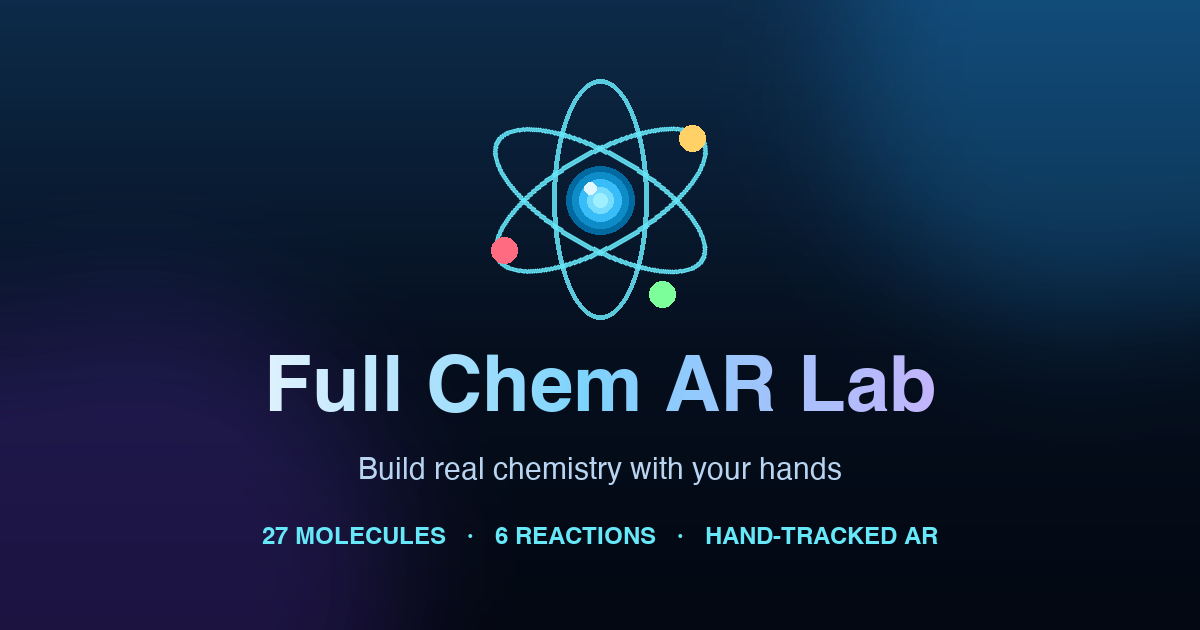
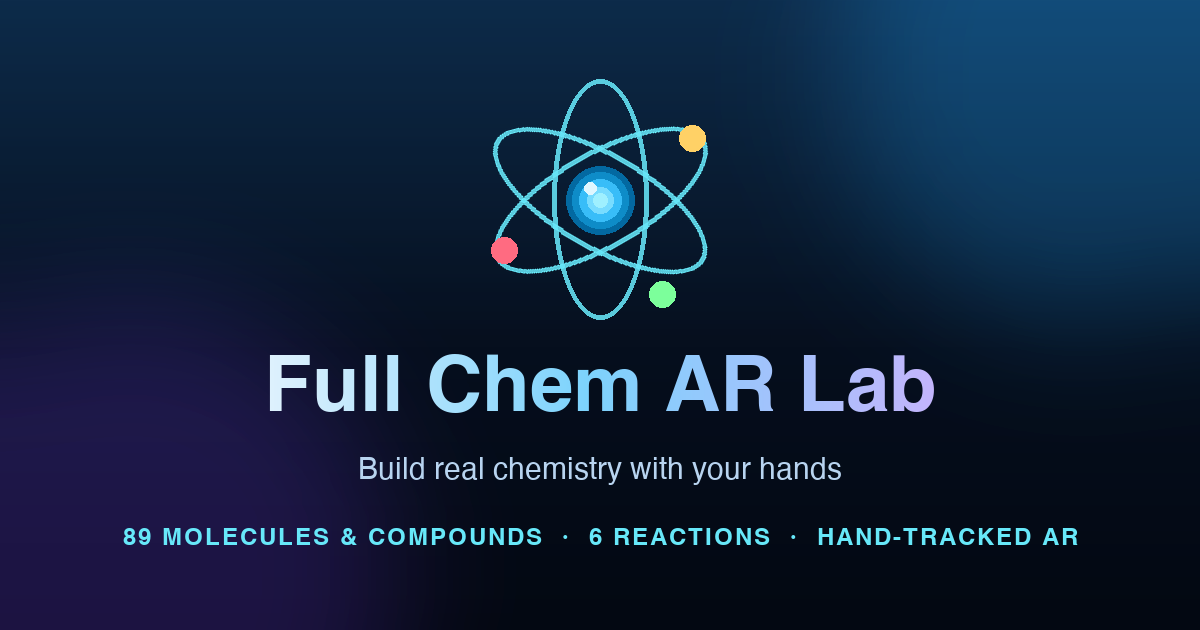
Update everything that lists or counts molecules (89 species)
- Discoveries list grouped (covalent molecules, expanded octets, noble-gas
  compounds, ions, ionic compounds, radicals, network solids, reaction
  products) with per-group counts, in the panel's existing styles.
- The total only counts listed species, and the 'all discovered'
  celebration needs every listed species (stale stored formulas could
  previously make it fire wrongly or never); it names the total.
- About the Science: partner-dependent bonding rules and the new shapes,
  isomers, radicals and network solid.
- Landing chips, page meta description, social preview image and README
  say 89 molecules & compounds.

Changed region(s): [[0.0925, 0.8143, 0.8942, 0.8746]]

diff --git a/src/App.jsx b/src/App.jsx
@@ -174,34 +174,46 @@ const POSITIVE_CHARGE_RGB = { r: 255, g: 170, b: 64 };
 const NEGATIVE_CHARGE_RGB = { r: 90, g: 200, b: 255 };
 
 const DISCOVERABLE_MOLECULES = [
-  { formula: "H2", label: "H₂ — Hydrogen gas" },
-  { formula: "O2", label: "O₂ — Oxygen gas" },
-  { formula: "N2", label: "N₂ — Nitrogen gas" },
-  { formula: "H2O", label: "H₂O — Water" },
-  { formula: "CO", label: "CO — Carbon monoxide" },
-  { formula: "CO2", label: "CO₂ — Carbon dioxide" },
-  { formula: "NH3", label: "NH₃ — Ammonia" },
-  { formula: "CH4", label: "CH₄ — Methane" },
-  { formula: "H2CO3", label: "H₂CO₃ — Carbonic acid" },
-  { formula: "2H2O", label: "2H₂O — Water dimer" },
-  { formula: "H3O+", label: "H₃O⁺ — Hydronium" },
-  { formula: "NH4+", label: "NH₄⁺ — Ammonium" },
-  { formula: "NaCl", label: "NaCl — Table salt" },
-  { formula: "HCl", label: "HCl — Hydrogen chloride" },
-  { formula: "OH-", label: "OH⁻ — Hydroxide" },
-  { formula: "H2O2", label: "H₂O₂ — Hydrogen peroxide" },
-  { formula: "O3", label: "O₃ — Ozone" },
-  { formula: "C2H6", label: "C₂H₆ — Ethane" },
-  { formula: "C2H4", label: "C₂H₄ — Ethene" },
-  { formula: "C2H2", label: "C₂H₂ — Ethyne" },
-  { formula: "CH3OH", label: "CH₃OH — Methanol" },
-  { formula: "NaOH", label: "NaOH — Sodium hydroxide" },
-  { formula: "Na2O", label: "Na₂O — Sodium oxide" },
-  { formula: "SO2", label: "SO₂ — Sulfur dioxide" },
-  { formula: "H2S", label: "H₂S — Hydrogen sulfide" },
-  { formula: "NH4Cl", label: "NH₄Cl — Ammonium chloride (reaction!)" },
-  { formula: "H2SO3", label: "H₂SO₃ — Sulfurous acid (reaction!)" },
+  { formula: "H2", label: "H₂ — Hydrogen gas" , group: "Covalent molecules" },
+  { formula: "O2", label: "O₂ — Oxygen gas" , group: "Covalent molecules" },
+  { formula: "N2", label: "N₂ — Nitrogen gas" , group: "Covalent molecules" },
+  { formula: "H2O", label: "H₂O — Water" , group: "Covalent molecules" },
+  { formula: "CO", label: "CO — Carbon monoxide" , group: "Covalent molecules" },
+  { formula: "CO2", label: "CO₂ — Carbon dioxide" , group: "Covalent molecules" },
+  { formula: "NH3", label: "NH₃ — Ammonia" , group: "Covalent molecules" },
+  { formula: "CH4", label: "CH₄ — Methane" , group: "Covalent molecules" },
+  { formula: "H2CO3", label: "H₂CO₃ — Carbonic acid" , group: "Reaction products" },
+  { formula: "2H2O", label: "2H₂O — Water dimer" , group: "Covalent molecules" },
+  { formula: "H3O+", label: "H₃O⁺ — Hydronium" , group: "Ions" },
+  { formula: "NH4+", label: "NH₄⁺ — Ammonium" , group: "Ions" },
+  { formula: "NaCl", label: "NaCl — Table salt" , group: "Ionic compounds" },
+  { formula: "HCl", label: "HCl — Hydrogen chloride" , group: "Covalent molecules" },
+  { formula: "OH-", label: "OH⁻ — Hydroxide" , group: "Ions" },
+  { formula: "H2O2", label: "H₂O₂ — Hydrogen peroxide" , group: "Covalent molecules" },
+  { formula: "O3", label: "O₃ — Ozone" , group: "Covalent molecules" },
+  { formula: "C2H6", label: "C₂H₆ — Ethane" , group: "Covalent molecules" },
+  { formula: "C2H4", label: "C₂H₄ — Ethene" , group: "Covalent molecules" },
+  { formula: "C2H2", label: "C₂H₂ — Ethyne" , group: "Covalent molecules" },
+  { formula: "CH3OH", label: "CH₃OH — Methanol" , group: "Covalent molecules" },
+  { formula: "NaOH", label: "NaOH — Sodium hydroxide" , group: "Ionic compounds" },
+  { formula: "Na2O", label: "Na₂O — Sodium oxide" , group: "Ionic compounds" },
+  { formula: "SO2", label: "SO₂ — Sulfur dioxide" , group: "Covalent molecules" },
+  { formula: "H2S", label: "H₂S — Hydrogen sulfide" , group: "Covalent molecules" },
+  { formula: "NH4Cl", label: "NH₄Cl — Ammonium chloride (reaction)" , group: "Reaction products" },
+  { formula: "H2SO3", label: "H₂SO₃ — Sulfurous acid (reaction)" , group: "Reaction products" },
   ...EXTRA_DISCOVERABLE_MOLECULES,
+];
+
+// Order of the sections in the Discoveries list.
+const DISCOVERY_GROUPS = [
+  "Covalent molecules",
+  "Expanded octets",
+  "Noble-gas compounds",
+  "Ions",
+  "Ionic compounds",
+  "Radicals",
+  "Network solids",
+  "Reaction products",
 ];
 
 // Data-driven molecule definitions. Legacy species (H2O, CO2, ...) keep their
@@ -1685,13 +1697,15 @@ function App() {
     showEventBanner({ kind: "discovery", title: "Molecule discovered!", subtitle: entry.label });
     playDiscoverySound();
 
-    if (nextDiscovered.length === DISCOVERABLE_MOLECULES.length) {
+    // Stored discoveries can include formulas from older versions, so check
+    // that every listed species has really been found.
+    if (DISCOVERABLE_MOLECULES.every((discoverable) => nextDiscovered.includes(discoverable.formula))) {
       window.setTimeout(() => {
         showEventBanner(
           {
             kind: "all",
             title: "All molecules discovered!",
-            subtitle: "You found every molecule in the lab 🎉",
+            subtitle: `You found all ${DISCOVERABLE_MOLECULES.length} species in the lab 🎉`,
           },
           5200
         );
@@ -4153,6 +4167,9 @@ function App() {
   const atomicExpansionCollapseGesture = atomicExpansionCollapseGestureRef.current;
   // eslint-disable-next-line react-hooks/refs
   const currentPH = getEstimatedPH(moleculesRef.current);
+  const discoveredCount = DISCOVERABLE_MOLECULES.filter((discoverable) =>
+    discoveredFormulas.includes(discoverable.formula)
+  ).length;
   const currentPHLabel = currentPH < 6.5 ? "Acidic" : currentPH > 7.5 ? "Basic" : "Neutral";
   const currentPHColor = currentPH < 6.5 ? "#fb7185" : currentPH > 7.5 ? "#a78bfa" : "#86efac";
   // Molecule inspector target: any grabbed molecule first, else the hovered one.
@@ -10182,7 +10199,7 @@ function App() {
               {
                 heading: "Molecular geometry (VSEPR)",
                 body:
-                  "Molecules snap into shapes based on VSEPR theory: water is bent at 104.5°, ammonia is trigonal pyramidal (107°), methane tetrahedral (109.5°), CO₂ linear, H₂S bent at 92°. Lone pairs are drawn from each species' Lewis structure — including chloride's full octet in ionic compounds. SO₂ and O₃ are drawn as resonance hybrids: instead of one double and one single bond, both bonds render identically as order 1½ (a solid stick plus a dashed delocalized stick) — matching the real molecules, whose two bonds are exactly the same length.",
+                  "Molecules snap into shapes based on VSEPR theory: water is bent at 104.5°, ammonia is trigonal pyramidal (107°), methane tetrahedral (109.5°), CO₂ linear, H₂S bent at 92°. Lone pairs are drawn from each species' Lewis structure — including chloride's full octet in ionic compounds. SO₂ and O₃ are drawn as resonance hybrids: instead of one double and one single bond, both bonds render identically as order 1½ (a solid stick plus a dashed delocalized stick) — matching the real molecules, whose two bonds are exactly the same length. Expanded-octet molecules show the shapes usually seen only in textbooks: see-saw SF₄, T-shaped ClF₃, square planar XeF₄, square pyramidal IF₅, trigonal bipyramidal PCl₅, octahedral SF₆ and pentagonal bipyramidal IF₇, drawn as 2-D views of the 3-D shape. Isomers such as ethanol and dimethyl ether (both C₂H₆O) are told apart by which atoms are bonded to which. Radicals (NO, NO₂) show their unpaired electron as a single dot, and SiO₂ is shown as one formula unit of a network solid, with faint open bonds where the quartz network continues.",
               },
               {
                 heading: "Bond polarity",
@@ -10192,7 +10209,7 @@ function App() {
               {
                 heading: "Bonding rules",
                 body:
-                  "Atoms enforce their real valences: H forms 1 bond, O 2, N 3, C 4, S 2 — with the extra dative-bond slot that creates the hydronium (H₃O⁺) and ammonium (NH₄⁺) cations. Metals never bond covalently: sodium only pairs ionically.",
+                  "Atoms enforce their real valences (counted in bond order — a double bond uses 2): H forms 1 bond, O 2, N 3, C 4. N and O can take one extra bond only from hydrogen, which makes NH₄⁺ and H₃O⁺. Elements from the third row down can exceed an octet, but only with very electronegative partners, and never past a real compound: S reaches 6 only with F or O (SF₆, H₂SO₄), P 5 with F, Cl or O (PCl₅, H₃PO₄), Cl 3 and I 7 with F (ClF₃, IF₇), xenon 6 with F or O (XeF₄, XeO₃) and krypton 2 with F (KrF₂) — so SH₆, SCl₆, NCl₅ and OF₄ are refused. These \u201cexpanded octets\u201d are the textbook Lewis picture; modern bonding theory explains them without d orbitals. Alkali and alkaline-earth metals never bond covalently: they only pair ionically with halides, oxide or sulfide.",
               },
               {
                 heading: "Reactions conserve mass",
@@ -10960,7 +10977,7 @@ function App() {
                   fontWeight: 700,
                 }}
               >
-                🧪 Discoveries ({discoveredFormulas.length}/{DISCOVERABLE_MOLECULES.length})
+                🧪 Discoveries ({discoveredCount}/{DISCOVERABLE_MOLECULES.length})
               </span>
               <span style={{ fontSize: "12px", opacity: 0.7 }}>{questOpen ? "▲" : "▼"}</span>
             </button>
@@ -10971,33 +10988,73 @@ function App() {
                   display: "flex",
                   flexDirection: "column",
                   gap: "5px",
-                  maxHeight: "230px",
+                  maxHeight: "min(420px, 60vh)",
                   overflowY: "auto",
                 }}
               >
-                {DISCOVERABLE_MOLECULES.map((discoverable) => {
-                  const isFound = discoveredFormulas.includes(discoverable.formula);
+                {DISCOVERY_GROUPS.map((group) => {
+                  const entries = DISCOVERABLE_MOLECULES.filter(
+                    (discoverable) => discoverable.group === group
+                  );
+                  const foundInGroup = entries.filter((discoverable) =>
+                    discoveredFormulas.includes(discoverable.formula)
+                  ).length;
+
+                  if (entries.length === 0) {
+                    return null;
+                  }
 
                   return (
                     <div
-                      key={discoverable.formula}
-                      style={{
-                        display: "flex",
-                        alignItems: "center",
-                        justifyContent: "space-between",
-                        gap: "8px",
-                        padding: "5px 8px",
-                        borderRadius: "8px",
-                        fontSize: "clamp(12px, 1.3vw, 12px)",
-                        background: isFound ? "rgba(34, 197, 94, 0.1)" : "rgba(255, 255, 255, 0.03)",
-                        border: isFound
-                          ? "1px solid rgba(134, 239, 172, 0.22)"
-                          : "1px solid rgba(255, 255, 255, 0.05)",
-                        color: isFound ? "#bbf7d0" : "rgba(255, 255, 255, 0.42)",
-                      }}
+                      key={group}
+                      style={{ display: "flex", flexDirection: "column", gap: "5px" }}
                     >
-                      <span>{isFound ? discoverable.label : "??? — undiscovered"}</span>
-                      {isFound ? <span style={{ fontWeight: 800 }}>✓</span> : null}
+                      <div
+                        style={{
+                          display: "flex",
+                          justifyContent: "space-between",
+                          gap: "8px",
+                          marginTop: "6px",
+                          fontSize: "clamp(11px, 1.2vw, 11px)",
+                          fontWeight: 700,
+                          letterSpacing: "0.08em",
+                          textTransform: "uppercase",
+                          color: "rgba(186, 230, 253, 0.7)",
+                        }}
+                      >
+                        <span>{group}</span>
+                        <span style={{ opacity: 0.8 }}>
+                          {foundInGroup}/{entries.length}
+                        </span>
+                      </div>
+                      {entries.map((discoverable) => {
+                        const isFound = discoveredFormulas.includes(discoverable.formula);
+
+                        return (
+                          <div
+                            key={discoverable.formula}
+                            style={{
+                              display: "flex",
+                              alignItems: "center",
+                              justifyContent: "space-between",
+                              gap: "8px",
+                              padding: "5px 8px",
+                              borderRadius: "8px",
+                              fontSize: "clamp(12px, 1.3vw, 12px)",
+                              background: isFound
+                                ? "rgba(34, 197, 94, 0.1)"
+                                : "rgba(255, 255, 255, 0.03)",
+                              border: isFound
+                                ? "1px solid rgba(134, 239, 172, 0.22)"
+                                : "1px solid rgba(255, 255, 255, 0.05)",
+                              color: isFound ? "#bbf7d0" : "rgba(255, 255, 255, 0.42)",
+                            }}
+                          >
+                            <span>{isFound ? discoverable.label : "??? — undiscovered"}</span>
+                            {isFound ? <span style={{ fontWeight: 800 }}>✓</span> : null}
+                          </div>
+                        );
+                      })}
                     </div>
                   );
                 })}

diff --git a/index.html b/index.html
@@ -11,13 +11,13 @@
     <link rel="apple-touch-icon" href="/apple-touch-icon.png" />
     <meta
       name="description"
-      content="Build real chemistry with your hands — a hand-tracked AR chemistry lab with 27 buildable molecules and 6 atom-conserving reactions, right in your browser."
+      content="Build real chemistry with your hands — a hand-tracked AR chemistry lab with 89 buildable molecules and compounds, all 118 elements and 6 atom-conserving reactions, right in your browser."
     />
     <meta property="og:type" content="website" />
     <meta property="og:title" content="Full Chem AR Lab" />
     <meta
       property="og:description"
-      content="Build real chemistry with your hands — 27 molecules, 6 reactions, hand-tracked AR in your browser."
+      content="Build real chemistry with your hands — 89 molecules & compounds, 6 reactions, hand-tracked AR in your browser."
     />
     <meta property="og:url" content="https://aeronite-p.github.io/Full-Chem-AR-Lab/" />
     <meta property="og:image" content="https://aeronite-p.github.io/Full-Chem-AR-Lab/og-image.png" />
@@ -27,7 +27,7 @@
     <meta name="twitter:title" content="Full Chem AR Lab" />
     <meta
       name="twitter:description"
-      content="Build real chemistry with your hands — 27 molecules, 6 reactions, hand-tracked AR in your browser."
+      content="Build real chemistry with your hands — 89 molecules & compounds, 6 reactions, hand-tracked AR in your browser."
     />
     <meta name="twitter:image" content="https://aeronite-p.github.io/Full-Chem-AR-Lab/og-image.png" />
     <title>Full Chem AR Lab</title>

diff --git a/src/Landing.jsx b/src/Landing.jsx
@@ -3,7 +3,7 @@ import "./landing.css";
 
 const TITLE_WORDS = ["Full", "Chem", "AR", "Lab"];
 const TAGLINE_WORDS = ["Build", "real", "chemistry", "with", "your", "hands."];
-const STATS = ["27 molecules", "6 reactions", "Hand-tracked AR"];
+const STATS = ["89 molecules & compounds", "6 reactions", "Hand-tracked AR"];
 
 // Element colors (CPK-inspired neon), matching the atoms inside the lab.
 const ATOM_COLORS = ["#e8f6ff", "#ff4d4d", "#aeb6c2", "#4d7dff", "#ffe14d", "#3dff8f", "#67e8f9"];

diff --git a/README.md b/README.md
@@ -18,9 +18,9 @@ Just click the link and it runs in your browser. Your browser will ask for camer
 - **Multi-hand support** — tracks up to 6 hands at once (3 on phones), so multiple people can interact at the same time.
 - **Touch & mobile support** — atoms and molecules can be dragged by touch or mouse, the full HUD works on small screens, and the lab runs as a touch-only sandbox while the camera is starting or if it's unavailable.
 - **All 118 elements** — the atom menu is a full periodic table. Every element can be spawned and inspected (standard atomic weight, the isotope shown, electron configuration, Pauling electronegativity, valence electrons).
-- **Honest bonding model** — nonmetals and metalloids bond covalently up to their common valence (with the extra dative slot that makes H₃O⁺ and NH₄⁺); alkali and alkaline-earth metals only bond ionically to halides, oxide or sulfide (drawn as dashed ionic links); noble gases don't bond; transition metals and other heavy elements can be spawned and inspected but don't bond in the lab.
-- **27 discoverable species** — from H₂ to sulfur dioxide, ozone, hydrogen peroxide, the ethane/ethene/ethyne family, methanol, and ionic compounds (NaCl, NaOH, Na₂O) with charge-tinted ions.
-- **Build real molecules** — when the right atoms are bonded together the app offers to snap them into the molecule's real shape. SO₂ and O₃ are drawn as resonance hybrids.
+- **Honest bonding model** — bond limits are counted in bond order. Nonmetals and metalloids bond covalently up to their common valence; N and O take one extra bond only from hydrogen (NH₄⁺, H₃O⁺). Elements from the third row down get a higher limit only with partners that really allow it, each backed by a real compound: S 6 with F/O (SF₆, H₂SO₄), P 5 with F/Cl/O (PCl₅, H₃PO₄), Cl 3 with F (ClF₃), I 7 with F (IF₇), Xe 6 with F/O (XeF₄, XeO₃), Kr 2 with F (KrF₂) — so SH₆, SCl₆, NCl₅ and OF₄ are refused with an explanation. Alkali and alkaline-earth metals only bond ionically to halides, oxide or sulfide (dashed links); He, Ne and Ar don't bond; transition metals and other heavy elements can be spawned and inspected but don't bond in the lab.
+- **89 discoverable species**, grouped in the Discoveries list: covalent molecules (halogens, hydrogen halides, hydrides, halogenated carbon and silicon, boron and phosphorus halides, organic acids and alcohols), expanded octets with their textbook VSEPR shapes (see-saw SF₄, T-shaped ClF₃, square planar XeF₄, square pyramidal IF₅, trigonal bipyramidal PCl₅, octahedral SF₆, pentagonal bipyramidal IF₇, SO₃, H₂SO₄, H₃PO₄), noble-gas compounds (XeF₂, XeF₄, XeO₃, KrF₂), ions, ionic compounds with the right ratios (MgCl₂, Na₂O, CaF₂, …), radicals (NO, NO₂) and a network solid (SiO₂).
+- **Build real molecules** — when the right atoms are bonded together the app offers to snap them into the molecule's real shape. Isomers with the same formula (ethanol / dimethyl ether, butane / isobutane) are told apart by which atoms are bonded to which. SO₂, O₃, NO₂ and nitric acid are drawn as resonance hybrids; radicals show their unpaired electron; SiO₂ is shown as one formula unit of a network solid.
 - **Six atom-conserving reactions** — bring reactants together and the lab offers the reaction, rebuilding the products from the exact atoms of the reactants: methane combustion (CH₄ + 2O₂ → CO₂ + 2H₂O, needs heat), neutralization (H₃O⁺ + OH⁻ → 2H₂O), sodium in water (2Na + 2H₂O → 2NaOH + H₂), acid rain (SO₂ + H₂O → H₂SO₃), carbonic acid (CO₂ + H₂O → H₂CO₃) and ammonium chloride (NH₃ + HCl → NH₄Cl). Each shows an energy diagram with its approximate ΔH and bursts in warm colors (energy released) or cool colors (energy absorbed).
 - **Temperature & equilibrium** — a lab thermostat drives thermal motion, weakens hydrogen bonds as it heats, ignites combustion, and speeds up the decomposition of unstable species (H₂CO₃, H₂SO₃, and NH₄Cl when hot).
 - **pH meter** — a qualitative estimate of how acidic or basic the lab is, from the acids and bases on screen.
